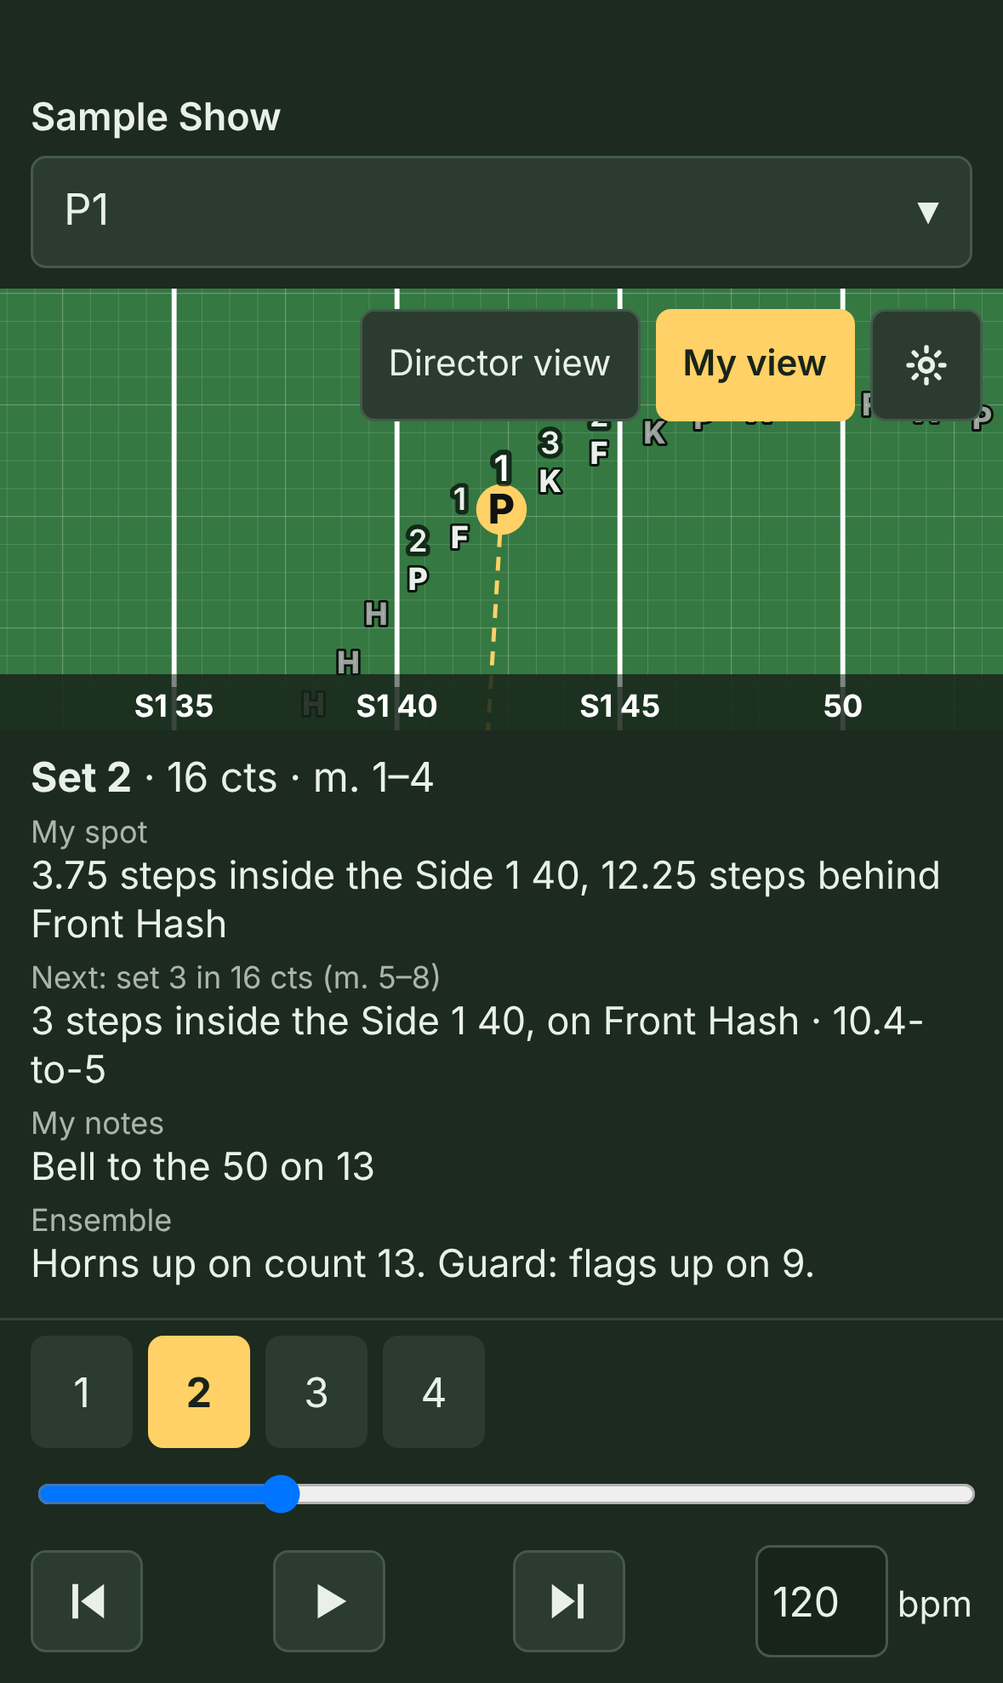
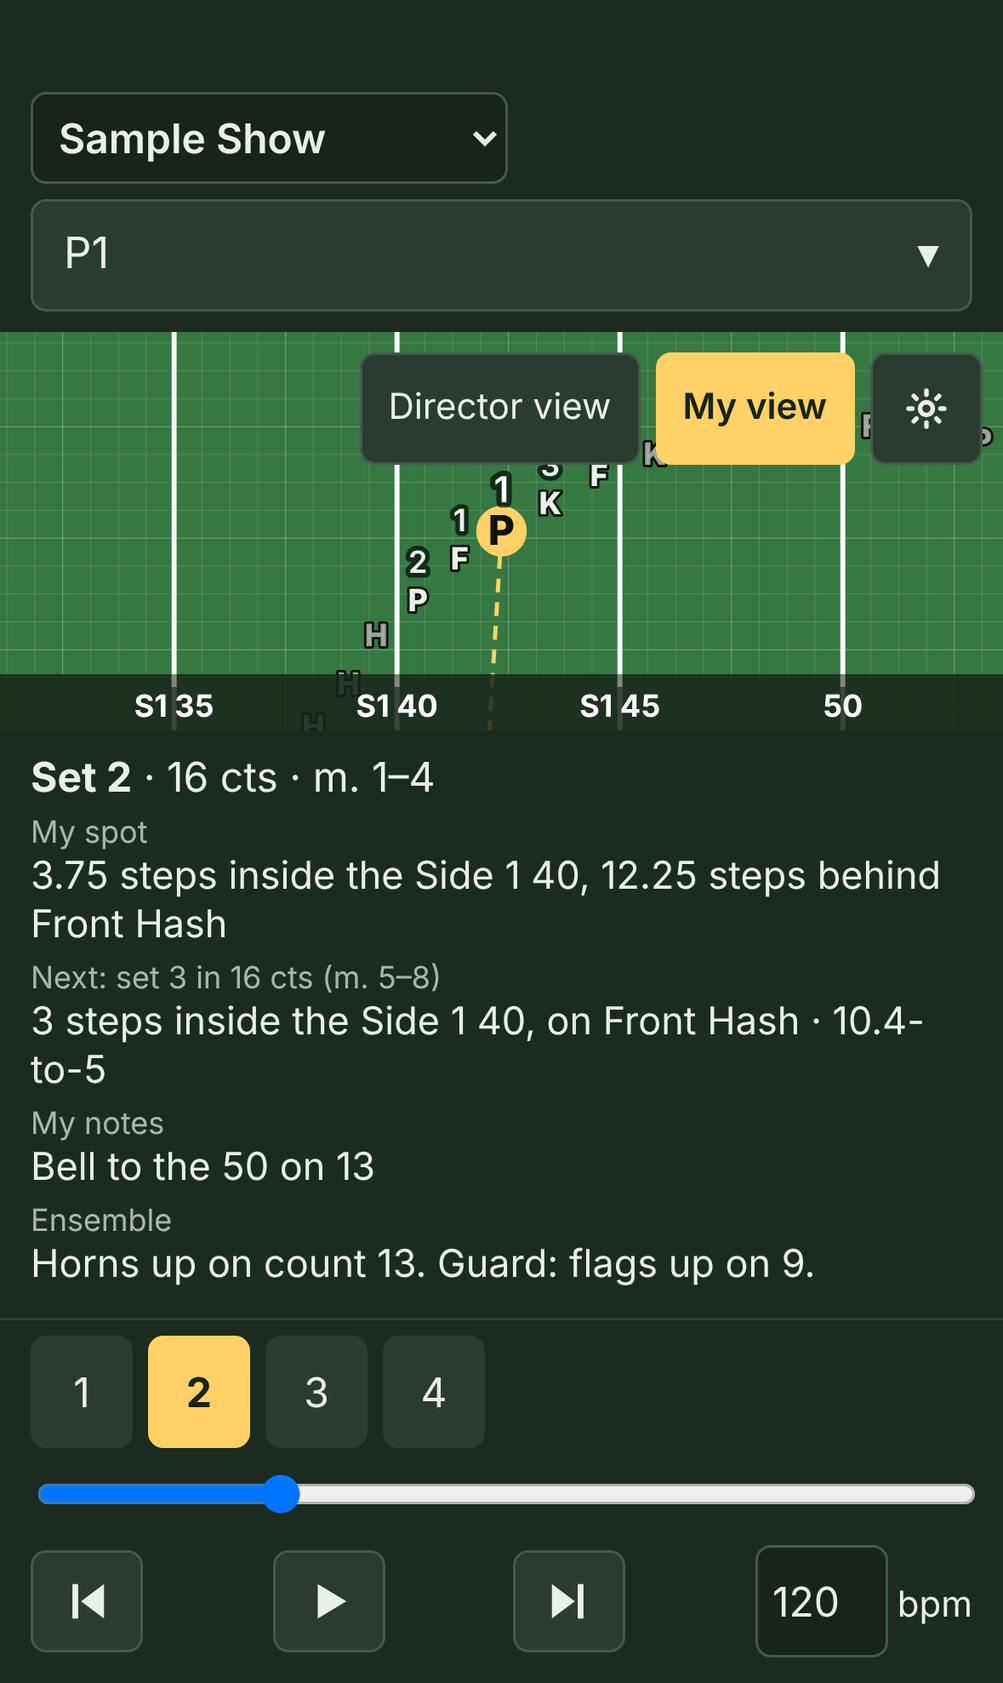
Several shows on a phone, switched from the title menu
For shows split into files (Opener, Ballad, Drum Feature, Closer; Jason). Every link opened joins the phone's list (up to 12); the title is a menu to switch, add (paste or scan), or remove. A new show starts on the same label; the same show again replaces itself. Older phones' saved show reads as a list of one. library.ts with tests.

Claude-Session: https://claude.ai/code/session_012ak5ZTJMUhdPSh9n22CtEG

Changed region(s): [[0.0, 0.0617, 1.0, 0.4011]]

diff --git a/src/perform/Perform.tsx b/src/perform/Perform.tsx
@@ -18,23 +18,13 @@ import { panCenter, pinchZoom, ZOOM_MAX } from './gestures';
 import { WhoPicker } from './WhoPicker';
 import { NumberField } from '../ui/NumberField';
 import { AUTOSAVE } from '../App';
+import { addShow, readLibrary, removeShow, STAFF, type Library, type Saved } from './library';
 
 const STORE = 'freeform:performer'; // separate from the editor's autosave, so opening a link never touches a director's work
-const STAFF = 'staff';
 const FOLLOW_STEPS = 36; // how much field fits across the screen when following a performer
 
-/** `source`: the hosted link ("#load=…", with its key) a show came from, so the phone can pick up updates when online. */
-interface Saved { show: Show; me: string | null; facingFront: boolean; follow: boolean; source?: string }
-
-function loadSaved(): Saved | null {
-  try {
-    const raw = localStorage.getItem(STORE);
-    if (!raw) return null;
-    const s = JSON.parse(raw);
-    return { show: parseShow(JSON.stringify(s.show)), me: s.me ?? null, facingFront: !!s.facingFront, follow: s.follow !== false, source: typeof s.source === 'string' && parseHosted(s.source) ? s.source : undefined };
-  } catch { return null; }
-}
-const save = (s: Saved) => { try { localStorage.setItem(STORE, JSON.stringify(s)); } catch { /* private mode: nothing kept */ } };
+const loadLib = (): Library => { try { return readLibrary(localStorage.getItem(STORE)); } catch { return { shows: [], current: 0 }; } };
+const saveLib = (l: Library) => { try { localStorage.setItem(STORE, JSON.stringify(l)); } catch { /* private mode: nothing kept */ } };
 
 /** The editor's Performer view: "#perform-editor=<performer id>" shows the editor's own show from that performer, kept off this device's saved show. */
 export const PREVIEW = '#perform-editor';
@@ -47,8 +37,12 @@ function loadPreview(): Saved | null {
 }
 
 export function Perform() {
-  const [state, setState] = useState<Saved | null>(() => loadPreview() ?? loadSaved());
-  const preview = useRef(location.hash.startsWith(PREVIEW) && !!state).current; // the editor's show: never saved over this device's show
+  const [previewState, setPreviewState] = useState<Saved | null>(loadPreview); // the editor's show: never saved over this device's shows
+  const preview = !!previewState;
+  const [lib, setLibState] = useState<Library>(loadLib);
+  const libRef = useRef(lib); libRef.current = lib; // for downloads that finish later
+  const setLib = (l: Library) => { libRef.current = l; saveLib(l); setLibState(l); };
+  const state = previewState ?? lib.shows[lib.current] ?? null;
   const theme = useTheme();
   const [error, setError] = useState('');
   const [t, setT] = useState(0);
@@ -67,14 +61,34 @@ export function Perform() {
     const old = prev?.music?.audioId;
     if (old && old !== show.music.audioId) deleteAudio(old);
   };
-  // Keep a newly arrived show on this phone; keep "who I am" if that performer is still in it.
+  // A recording no show on the phone uses any more goes too.
+  const dropAudio = (gone: Saved | undefined, l: Library) => {
+    const id = gone?.show.music?.audioId;
+    if (id && !l.shows.some((s) => s.show.music?.audioId === id)) deleteAudio(id);
+  };
+  // Keep a newly arrived show in the phone's list and open it (the same show again replaces itself; see addShow).
   const adopt = (show: Show, source: string | undefined, fresh: boolean, audio?: Blob) => {
-    const prev = loadSaved();
-    keepAudio(show, audio, prev?.show);
-    const keepMe = prev?.me && (prev.me === STAFF || show.performers.some((p) => p.id === prev.me)) ? prev.me : null;
-    const next = { show, me: keepMe, facingFront: prev?.facingFront ?? false, follow: prev?.follow ?? true, source };
-    save(next); setState(next); setError('');
+    const r = addShow(libRef.current, show, source);
+    setLib(r.lib); setError('');
+    keepAudio(show, audio, r.replaced?.show);
+    dropAudio(r.dropped, r.lib);
     if (fresh) setT(0);
+  };
+  // Opening a hosted show: quietly check for a newer version when online. Offline, the saved copy is used.
+  const checkHosted = () => {
+    const saved = libRef.current.shows[libRef.current.current];
+    if (!saved?.source || !navigator.onLine) return;
+    // An unchanged file isn't downloaded again: the fetch revalidates (cache: 'no-cache'), and GitHub answers 304 for the same ETag.
+    fetchHosted(saved.source).then(({ show, audio }) => {
+      if (JSON.stringify(show) !== JSON.stringify(saved.show)) { adopt(show, saved.source, false, audio); setNotice('Show updated.'); }
+      else keepAudio(show, audio, saved.show); // same show; the recording may be new (added to the file later)
+    }).catch(() => { /* keep the saved copy */ });
+  };
+  const switchTo = (i: number) => { setLib({ ...libRef.current, current: i }); setT(0); setPlaying(false); setNotice(''); setError(''); checkHosted(); };
+  const [adding, setAdding] = useState(false); // the paste-a-link / scan panel, to add another show
+  const remove = (i: number) => {
+    const l = removeShow(libRef.current, i);
+    setLib(l); dropAudio(libRef.current.shows[i], l); setT(0); setPlaying(false);
   };
 
   // Opening a link: a share link carries the show; a hosted link (#load=) says where to download it.
@@ -91,18 +105,14 @@ export function Perform() {
       fetchHosted(hash).then((r) => { adopt(r.show, hash, true, r.audio); done(); }).catch(fail);
       return;
     }
-    // Reopening a hosted show: quietly check for a newer version when online. Offline, the saved copy is used.
-    const saved = loadSaved();
-    if (saved?.source && navigator.onLine) {
-      // An unchanged file isn't downloaded again: the fetch revalidates (cache: 'no-cache'), and GitHub answers 304 for the same ETag.
-      fetchHosted(saved.source).then(({ show, audio }) => {
-        if (JSON.stringify(show) !== JSON.stringify(saved.show)) { adopt(show, saved.source, false, audio); setNotice('Show updated.'); }
-        else keepAudio(show, audio, saved.show); // same show; the recording may be new (added to the file later)
-      }).catch(() => { /* keep the saved copy */ });
-    }
+    checkHosted();
   }, []); // eslint-disable-line react-hooks/exhaustive-deps
 
-  const update = (patch: Partial<Saved>) => setState((s) => { if (!s) return s; const n = { ...s, ...patch }; if (!preview) save(n); return n; });
+  const update = (patch: Partial<Saved>) => {
+    if (preview) { setPreviewState((s) => s && { ...s, ...patch }); return; }
+    const l = libRef.current;
+    if (l.shows[l.current]) setLib({ ...l, shows: l.shows.map((s, i) => (i === l.current ? { ...s, ...patch } : s)) });
+  };
 
   const show = state?.show;
   const starts = useMemo(() => (show ? setStarts(show) : [0]), [show]);
@@ -329,9 +339,23 @@ export function Perform() {
       <header className="perform-bar">
         <div className="perform-titlebar">
           <span className="perform-title">{error ? <span role="alert" title={error} style={{ color: 'var(--danger)' }}>{error} Showing your saved copy. </span>
-            : notice ? <span role="status" style={{ color: 'var(--green-line)' }}>{notice} </span> : null}{show.title}</span>
+            : notice ? <span role="status" style={{ color: 'var(--green-line)' }}>{notice} </span> : null}
+            {preview ? show.title : (
+              // The shows on this phone: pick one to open it (an Opener, a Ballad, a Closer…), or add or remove one.
+              <select aria-label="Show" className="perform-shows" value={lib.current} onChange={(e) => {
+                const v = e.target.value;
+                if (v === 'add') setAdding(true);
+                else if (v === 'remove') { if (confirm(`Remove "${show.title}" from this phone? You can open its link again later.`)) remove(lib.current); }
+                else switchTo(Number(v));
+              }}>
+                {lib.shows.map((x, i) => <option key={i} value={i}>{x.show.title}</option>)}
+                <option value="add">＋ Add a show…</option>
+                <option value="remove">Remove this show…</option>
+              </select>
+            )}</span>
           {!isPhone() && <button onClick={toEditor} title="Back to the drill editor" style={{ fontSize: 14 }}>← Editor</button>}
         </div>
+        {adding && <div className="perform-add" role="dialog" aria-label="Add a show"><span>Open another show's link, or paste it or scan its QR code here. It's added to this phone's list.</span><PasteLink /><button onClick={() => setAdding(false)}>Cancel</button></div>}
         <WhoPicker show={show} value={state!.me} staff={STAFF} onPick={(v) => { update({ me: v }); setZoom(1); setCenter({ x: 0, y: 42 }); }} />
       </header>
       <div className="perform-field">

diff --git a/src/perform/library.ts b/src/perform/library.ts
@@ -1,0 +1,56 @@
+// The shows kept on a phone: a short list (Opener, Ballad, Drum Feature, Closer…) and which one is open.
+import { parseHosted } from '../engine/share';
+import { label, parseShow, type Show } from '../engine/show';
+
+export const STAFF = 'staff';
+export const MAX_SHOWS = 12;
+
+/** `source`: the hosted link ("#load=…", with its key) a show came from, so the phone can pick up updates when online. */
+export interface Saved { show: Show; me: string | null; facingFront: boolean; follow: boolean; source?: string }
+export interface Library { shows: Saved[]; current: number }
+
+const toSaved = (s: Record<string, unknown>): Saved => ({
+  show: parseShow(JSON.stringify(s.show)), me: typeof s.me === 'string' ? s.me : null, facingFront: !!s.facingFront, follow: s.follow !== false,
+  source: typeof s.source === 'string' && parseHosted(s.source) ? s.source : undefined,
+});
+
+/** The library from storage. A phone from before the library kept one show (the saved object itself); a show that no longer reads is skipped. */
+export function readLibrary(raw: string | null): Library {
+  try {
+    const s = raw ? JSON.parse(raw) : null;
+    const list: Record<string, unknown>[] = Array.isArray(s?.shows) ? s.shows : s?.show ? [s] : [];
+    const shows = list.flatMap((x) => { try { return [toSaved(x)]; } catch { return []; } }).slice(0, MAX_SHOWS);
+    const current = Number.isInteger(s?.current) ? Math.min(Math.max(0, s.current), shows.length - 1) : 0;
+    return { shows, current: Math.max(0, current) };
+  } catch { return { shows: [], current: 0 }; }
+}
+
+/**
+ * Add an arriving show and open it. The same show again (the same hosted link, or a share link with the same title) is
+ * replaced in place and keeps who I am. A new show starts on the performer with my label in the show I had open (B5 in
+ * the Opener is B5 in the Ballad), or on Staff if I was staff. Past MAX_SHOWS, the oldest goes. Returns what was replaced
+ * or dropped, so the phone can tidy their recordings.
+ */
+export function addShow(lib: Library, show: Show, source?: string): { lib: Library; replaced?: Saved; dropped?: Saved } {
+  const at = lib.shows.findIndex((s) => (source ? s.source === source : !s.source && s.show.title === show.title));
+  const old = at >= 0 ? lib.shows[at] : undefined, cur = lib.shows[lib.current];
+  const has = (id: string | null | undefined) => !!id && (id === STAFF || show.performers.some((p) => p.id === id));
+  let me: string | null = null;
+  if (old && has(old.me)) me = old.me;
+  else if (cur?.me === STAFF) me = STAFF;
+  else if (cur?.me) {
+    const mine = cur.show.performers.find((p) => p.id === cur.me);
+    me = (mine && show.performers.find((p) => label(show, p) === label(cur.show, mine))?.id) ?? null;
+  }
+  const like = old ?? cur;
+  const entry: Saved = { show, me, facingFront: like?.facingFront ?? false, follow: like?.follow ?? true, ...(source ? { source } : {}) };
+  if (old) return { lib: { shows: lib.shows.map((s, i) => (i === at ? entry : s)), current: at }, replaced: old };
+  const shows = [...lib.shows, entry], dropped = shows.length > MAX_SHOWS ? shows.shift() : undefined;
+  return { lib: { shows, current: shows.length - 1 }, dropped };
+}
+
+/** Take a show off the phone; the one open moves to a neighbor. */
+export function removeShow(lib: Library, i: number): Library {
+  const shows = lib.shows.filter((_, j) => j !== i);
+  return { shows, current: Math.max(0, Math.min(lib.current > i ? lib.current - 1 : lib.current, shows.length - 1)) };
+}

diff --git a/src/perform/library.test.ts b/src/perform/library.test.ts
@@ -1,0 +1,50 @@
+import { expect, it } from 'vitest';
+import { addPerformer, newShow, type Show } from '../engine/show';
+import { addShow, MAX_SHOWS, readLibrary, removeShow, STAFF } from './library';
+
+const tune = (title: string): { show: Show; b5: string } => {
+  let show: Show = { ...newShow(), title };
+  const b = show.sections.find((s) => s.letter === 'B')!.id;
+  let b5 = '';
+  for (let k = 0; k < 5; k++) { const r = addPerformer(show, b, { x: k, y: 0 }); show = r.show; b5 = r.id; } // ids differ file to file
+  return { show, b5 };
+};
+
+it('keeps several shows, opens the newest, and starts a new one on my label', () => {
+  const opener = tune('Opener'), ballad = tune('Ballad');
+  let lib = addShow({ shows: [], current: 0 }, opener.show).lib;
+  lib = { ...lib, shows: [{ ...lib.shows[0], me: opener.b5 }] };
+  lib = addShow(lib, ballad.show).lib;
+  expect(lib.shows.map((s) => s.show.title)).toEqual(['Opener', 'Ballad']);
+  expect(lib.current).toBe(1);
+  expect(lib.shows[1].me).toBe(ballad.b5); // B5 in the Opener is B5 in the Ballad
+});
+
+it('replaces the same show in place and keeps who I am', () => {
+  const opener = tune('Opener');
+  let lib = addShow({ shows: [], current: 0 }, opener.show, '#load=a').lib;
+  lib = addShow({ ...lib, shows: [{ ...lib.shows[0], me: opener.b5 }] }, tune('Ballad').show).lib;
+  const r = addShow(lib, { ...opener.show, title: 'Opener (new)' }, '#load=a');
+  expect(r.lib.shows.map((s) => s.show.title)).toEqual(['Opener (new)', 'Ballad']);
+  expect([r.lib.current, r.lib.shows[0].me, r.replaced?.show.title]).toEqual([0, opener.b5, 'Opener']);
+});
+
+it('carries Staff over, drops the oldest past the limit, and removes a show', () => {
+  let lib = addShow({ shows: [], current: 0 }, tune('1').show).lib;
+  lib = { ...lib, shows: [{ ...lib.shows[0], me: STAFF }] };
+  lib = addShow(lib, tune('2').show).lib;
+  expect(lib.shows[1].me).toBe(STAFF);
+  let dropped;
+  for (let k = 3; k <= MAX_SHOWS + 1; k++) ({ lib, dropped } = addShow(lib, tune(String(k)).show));
+  expect([lib.shows.length, lib.shows[0].show.title, dropped?.show.title]).toEqual([MAX_SHOWS, '2', '1']);
+  const fewer = removeShow({ ...lib, current: 3 }, 1);
+  expect([fewer.shows.length, fewer.current]).toEqual([MAX_SHOWS - 1, 2]); // the same show stays open
+});
+
+it('reads an older phone that kept one show, and skips one that no longer reads', () => {
+  const { show } = tune('Opener');
+  expect(readLibrary(JSON.stringify({ show, me: null, facingFront: true, follow: true })).shows.map((s) => [s.show.title, s.facingFront])).toEqual([['Opener', true]]);
+  expect(readLibrary(JSON.stringify({ shows: [{ show }, { show: { nope: 1 } }], current: 5 }))).toMatchObject({ current: 0 });
+  expect(readLibrary(JSON.stringify({ shows: [{ show }, { show: { nope: 1 } }], current: 5 })).shows).toHaveLength(1);
+  expect(readLibrary(null)).toEqual({ shows: [], current: 0 });
+});

diff --git a/index.html b/index.html
@@ -91,6 +91,9 @@
       /* Room at the top: newer iOS blurs a band just below the status bar (over the page), which blurred the title. */
       .perform-bar { display: flex; flex-direction: column; gap: 6px; padding: 24px 12px 8px; flex-shrink: 0; }
       .perform-titlebar { display: flex; align-items: center; gap: 8px; }
+      .perform-shows { font: inherit; font-weight: 600; max-width: 100%; min-height: 36px; } /* the show picker: big enough to tap */
+      .perform-add { position: fixed; top: 0; left: 0; right: 0; z-index: 20; display: grid; gap: 8px; padding: 16px; font-size: 15px; background: var(--bg); border-bottom: 1px solid var(--line-strong); box-shadow: 0 6px 16px rgba(0,0,0,0.45); } /* over the field: opening it doesn't resize the field */
+      .perform-add > button { justify-self: start; }
       .perform-title { flex: 1; min-width: 0; font-size: 15px; font-weight: 600; overflow: hidden; display: -webkit-box; -webkit-line-clamp: 2; -webkit-box-orient: vertical; overflow-wrap: anywhere; }
       .who-button { display: flex; align-items: center; justify-content: space-between; gap: 8px; width: 100%; min-height: 44px; font-size: 17px; text-align: left; }
       .who-current { overflow: hidden; text-overflow: ellipsis; white-space: nowrap; }

diff --git a/docs/HOW-TO.md b/docs/HOW-TO.md
@@ -389,7 +389,9 @@ On the performer screen:
 - Under the field they see the spot they're standing on, then their next spot and how many counts it takes to get there (with measures and step size), plus their notes and the ensemble notes. On the field, the performers closest to them are drawn a little brighter and labeled.
 - They can play at any tempo, step count by count, scrub, or tap a set number to jump to it. If the show has music, Play follows it, and **♪ Music** switches back to a tempo.
 
-Students can add FreeFORM to their home screen. In the home-screen app, they open a show with **Scan QR code** or by pasting the link.
+**Several shows on one phone.** If your Opener, Ballad, Drum Feature, and Closer are separate files, send each one's link. Every link a student opens is added to the list on their phone instead of replacing what's there. The show's title at the top of the screen is a menu: tap it and pick another show to switch. Each show remembers who they are, and a new show starts on the same dot (B5 in the Opener starts as B5 in the Ballad). Opening a link for a show that's already on the phone (an updated version of the same hosted link, or a share link with the same title) replaces it in place. **＋ Add a show…** in the same menu opens a box to paste a link or **Scan QR code**, and **Remove this show…** takes the open show off the phone. A phone keeps up to 12 shows.
+
+Students can add FreeFORM to their home screen. In the home-screen app, they open a show with **Scan QR code** or by pasting the link, and add more with **＋ Add a show…**.
 
 To check a performer's view while you write, select them and click **Performer view** in the sidebar. You see the show you're editing the way they see it on their phone, starting on them (with no one selected, it starts on the whole band), and you can pick someone else from the list at the top. It's a preview: it doesn't replace a show saved on that computer or iPad from a link. **← Editor** takes you back. **Open performer view here** in the Share dialog opens a share link on the same screen.
 

diff --git a/DECISIONS.md b/DECISIONS.md
@@ -1148,3 +1148,8 @@ Each entry: timestamp, who decided, context, options considered, decision.
 ## 2026-11-05 19:35 EST — No "Open a different show" on the performer screen
 - **Who:** Jason Tiller: performers don't need it.
 - **Decision:** Removed from the screen with a show open. The paste box and **Scan QR code** stay on the empty screen, where a phone opens its first show. Hosted links still update themselves. Trade-off: a student using the home-screen app can't switch it to a different show from inside the app once one is open.
+
+## 2026-11-05 19:55 EST — Several shows on a phone
+- **Who:** Jason Tiller: shows may come as separate files (Opener, Ballad, Drum Feature, Closer), and performers need to switch between them quickly. The details are Claude's *(Jason can veto)*.
+- **Options:** A list in the menu vs. tabs or a home screen of shows; how to tell "the same show again" from a new one; how to set "who I am" in a new show.
+- **Decision:** The phone keeps a list (`freeform:performer` now holds `{ shows, current }`; a phone from before reads as a list of one). Every opened link is added and opened. The same hosted link, or a share link with the same title, replaces its entry in place and keeps who I am. A new show starts on the performer with the same label (B5) as the show that was open, or on Staff. The show's title at the top is a native menu (big and fast on a phone) listing the shows, plus **＋ Add a show…** (paste or scan, in a panel over the field) and **Remove this show…** (asks first). Up to 12 shows; past that the oldest goes. A recording is deleted only when no show on the phone uses it. Switching to a hosted show checks it for updates, as opening one did. The editor's preview has no menu (it shows only the editor's show). This brings back a way to open a new show inside the home-screen app, which removing **Open a different show** had taken away.

diff --git a/PLAN.md b/PLAN.md
@@ -37,6 +37,7 @@
 - ✅ Published on GitHub Pages; installable and offline (PWA).
 - ✅ Performer view (phone): share links; pick my dot or Staff; follow me; facing front or director view; count-by-count; my spot, next spot, step size, notes.
 - ✅ Performer view: pinch-zoom; screen kept awake while playing.
+- ✅ Several shows on a phone (Jason: separate files per tune): every link opened joins the phone's list (up to 12); the title is a menu to switch, add, or remove; a new show starts on the same label; the same show again replaces itself.
 - ✅ QR codes for share links that fit; hosted links (`#load=` + a show file's https address) that phones re-check and update in place. Tested with GitHub gists. ✅ In-app QR scanner (camera) so scans land in the home-screen app, not Safari. ✅ Phones get only the performer/director views (no editor).
 - ✅ Protected hosting: hosted show files are encrypted in the browser (AES-GCM); the key rides only in the link's `#` part, so any plain file host (a secret gist) only ever stores ciphertext. Re-keying cuts off old links for future updates. Later, if needed: a FreeFORM-run upload service so directors needn't touch gists; per-performer links.
 - ✅ Count-first layout (Jason): drag a set's button to place it at a count (neighbors stay pinned); **Movements** (named totals, one per tune or several per file) set the timeline's length up front; add a set at a clicked or typed count without moving the others (mid-move = a sub-set, 1A). ✅ Movement names on the timeline and printed chart headers. Follow-up: filling movement totals from the score's MIDI.

diff --git a/README.md b/README.md
@@ -53,7 +53,7 @@ A note on where the ideas came from: FreeFORM is modeled on Pyware and the Ultim
 - Dot sheets (four cards per page, or one per page with a notes column) and drill charts (one per set, with or without the paths into it), printed or saved as PDF.
 - Share links with a QR code. The whole show is in the link, with no server involved.
 - Locked hosted links that update themselves on phones, can carry the music, and keep names private. One-click publishing to your own GitHub repository.
-- A performer view for phones: pick who you are, follow your dot, and see your spot now, your next spot, and the counts to get there. It works offline once it's opened.
+- A performer view for phones: pick who you are, follow your dot, and see your spot now, your next spot, and the counts to get there. A phone keeps several shows (the Opener, Ballad, and Closer as separate files) and switches between them from a menu. It works offline once it's opened.
 
 **Files**
 - Autosave in your browser, plus export and import of `.freeform` files.
